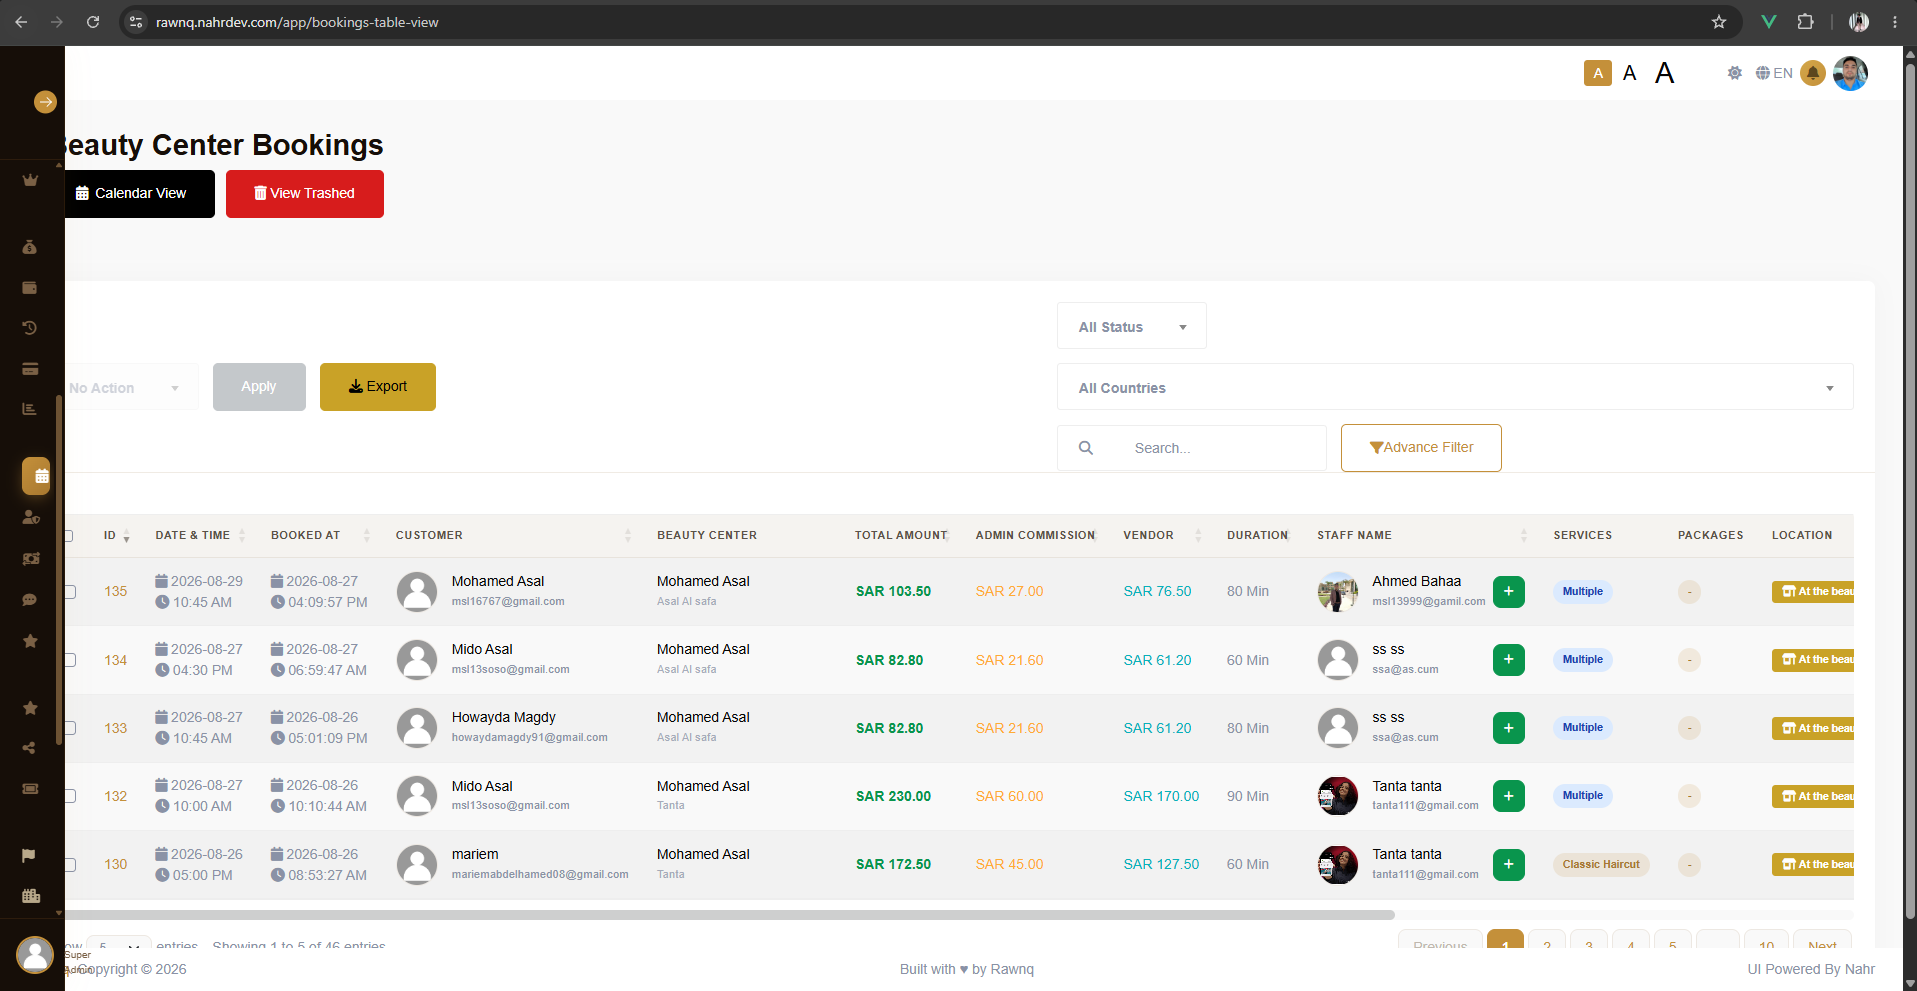
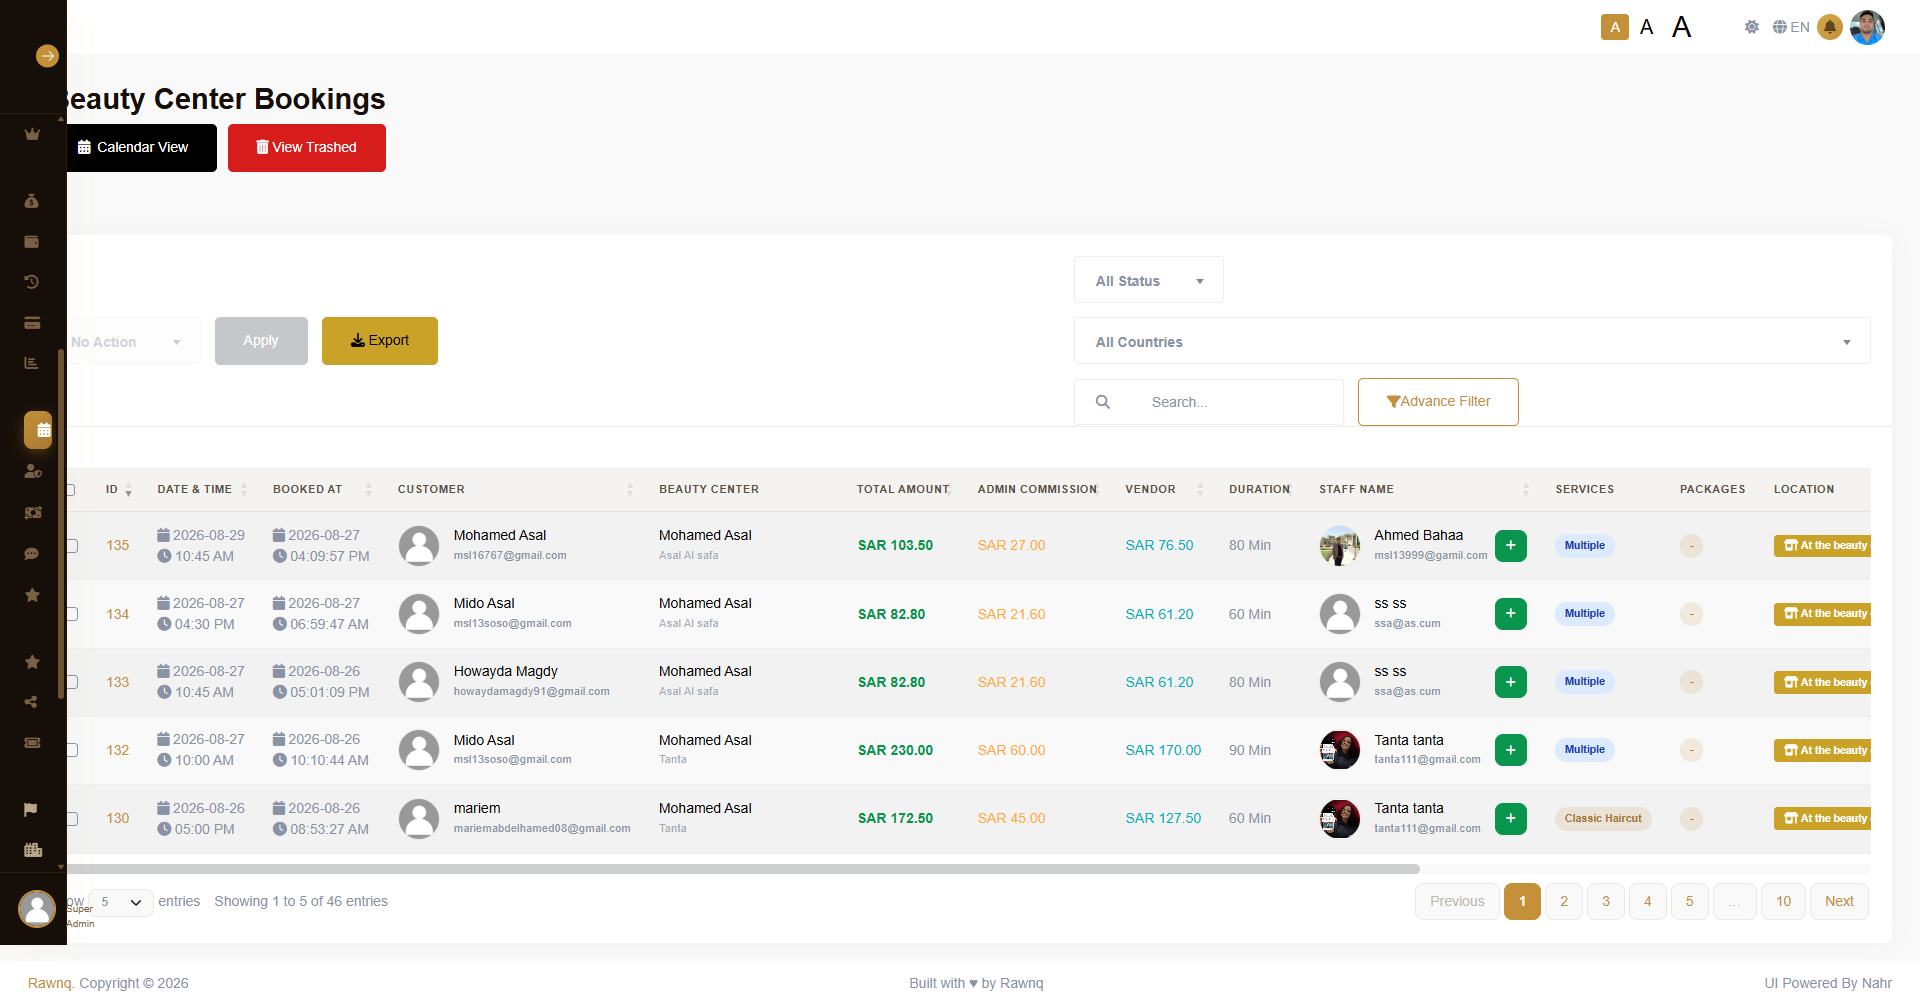
feat: Refresh Rawnq screenshots with full-page captures + registration
Replaces the 5 Rawnq screenshots with new full-page recaptures and
adds the vendor registration form as a 6th gallery image. Landing
page re-encoded as JPEG (max width 1600px, q85): 4.2MB -> ~520KB.

diff --git a/js/script.js b/js/script.js
@@ -21,7 +21,8 @@ const projects = [
     descAr: "ماركت بليس متعدد البائعين لخدمات التجميل بأكثر من 35 موديول مستقل. نظام محفظة إلكترونية، صلاحيات دقيقة (RBAC)، دعم متعدد اللغات والعملات، جدولة لحظية، ومدفوعات متعددة البوابات (Stripe, PayPal, Razorpay, Kashier).",
     link: "https://rawnq.nahrdev.com/",
     images: [
-      { src: "assets/projects/rawnq/landing.png", captionEn: "Marketing landing page", captionAr: "الصفحة الرئيسية التسويقية", path: "rawnq.nahrdev.com" },
+      { src: "assets/projects/rawnq/landing.jpg", captionEn: "Marketing landing page (full page)", captionAr: "الصفحة الرئيسية التسويقية (كاملة)", path: "rawnq.nahrdev.com" },
+      { src: "assets/projects/rawnq/register.png", captionEn: "Vendor registration", captionAr: "تسجيل حساب مزوّد جديد", path: "rawnq.nahrdev.com/register" },
       { src: "assets/projects/rawnq/login.png", captionEn: "Vendor / admin login", captionAr: "تسجيل دخول المزوّد والأدمن", path: "rawnq.nahrdev.com/login-page" },
       { src: "assets/projects/rawnq/dashboard.png", captionEn: "Analytics dashboard", captionAr: "لوحة التحليلات", path: "rawnq.nahrdev.com/apps" },
       { src: "assets/projects/rawnq/bookings-table.png", captionEn: "Bookings table", captionAr: "جدول الحجوزات", path: "rawnq.nahrdev.com/app/bookings-table-view" },
